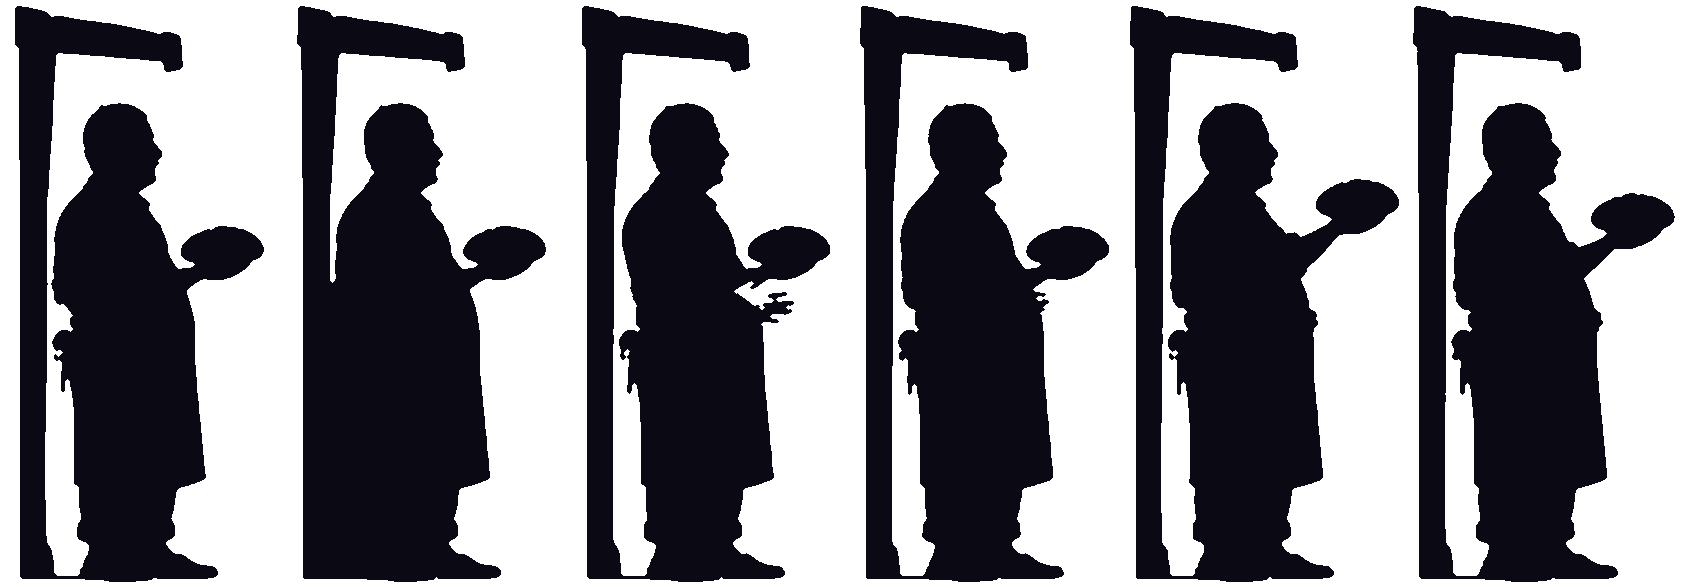
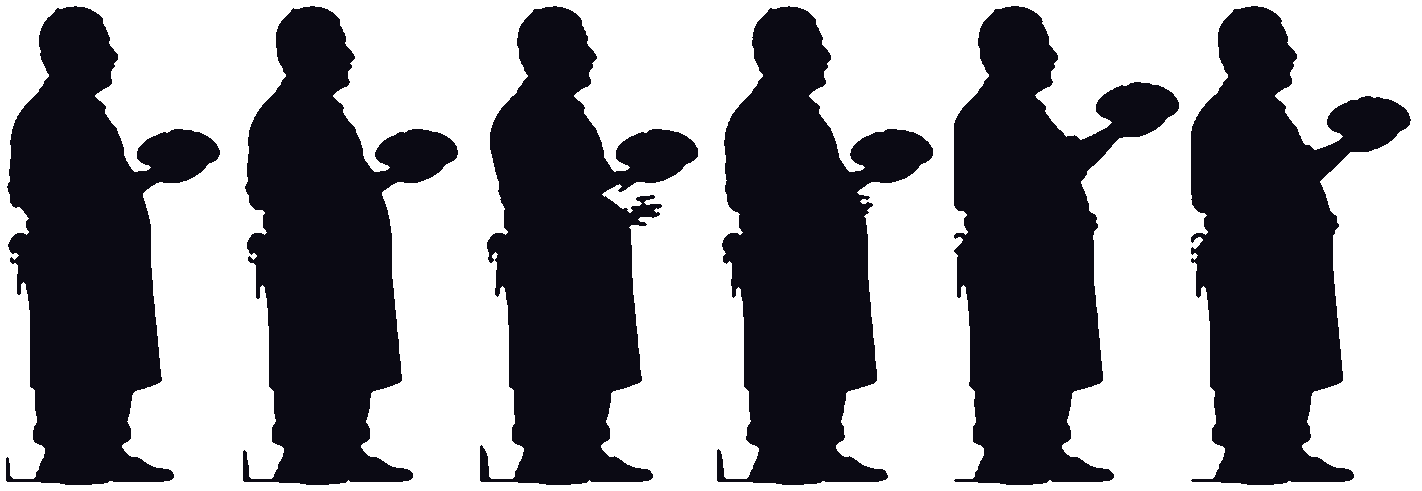
roto: --erase regions before keying; Abu Ahmad's idle without the doorway
Claude-Session: https://claude.ai/code/session_01N9yTAvqhZsfR68yJs5Z1wT

Changed region(s): [[0.0, 0.0, 1.0, 1.0], [0.1547, 0.5804, 0.3094, 1.0], [0.2475, 0.5193, 0.3094, 0.947]]

diff --git a/tools/roto.py b/tools/roto.py
@@ -156,6 +156,10 @@ def cmd_key(args: argparse.Namespace) -> None:
         if plate is not None and plate.shape != f.shape:
             sys.exit("roto: background plate must match the frame size")
         m = _mask_for(f, args, plate)
+        for region in args.erase:
+            x0, y0, x1, y1 = (float(v) for v in region.split(","))
+            hh, ww = m.shape
+            m[int(y0 * hh):int(y1 * hh), int(x0 * ww):int(x1 * ww)] = False
         m = _dilate(_erode(m, args.clean), args.clean)          # open: drop specks
         m = _erode(_dilate(m, args.fill), args.fill)            # close: fill pin holes
         m = _largest_components(m, 1.0 if args.largest else 0.02)
@@ -259,6 +263,8 @@ def main() -> None:
     k.add_argument("--colour", default="0b0a14", help="silhouette colour, hex")
     k.add_argument("--hand", help="static hand position x,y in output pixels")
     k.add_argument("--per-frame", dest="per_frame", action="store_true", help="crop each frame to its own box and bottom-align (jumps)")
+    k.add_argument("--erase", action="append", default=[], metavar="X0,Y0,X1,Y1",
+                   help="blank this region (fractions of the frame) before keying; repeatable")
     k.add_argument("--solid", action="store_true", help="fill enclosed holes (grey detail inside a silhouette)")
     k.add_argument("--largest", action="store_true", help="keep only the single biggest blob (a figure and what it holds)")
     k.set_defaults(fn=cmd_key)

diff --git a/docs/HANDOFF.md b/docs/HANDOFF.md
@@ -4,7 +4,7 @@ Where SUMUD stands on 30 September 2026, and how to pick it up in a new session 
 
 ## Where we are
 
-**Latest (1 October 2026, morning).** The founder allowed AI generation ("go ahead make it good"). The policy is flipped in `lock.md` (F-01 LOCKED, F-09 the limits), `art/direction.md`, `audio/direction.md` and `decisions.md`. All three style frames generated (`docs/art/style-frames/`, Canva media ids in `docs/art/prompts.md`) but only thumbnails reached the repo: the cloud environment's network policy denies `*.canva.com` and `fal.media`, so full-resolution generated files cannot be downloaded until the founder widens Network access in the environment settings. Done since: `tools/roto.py` (split a generated sheet, key frames to silhouettes, pack a strip) and `game/tools/build_frames.gd` (headless: strips to a `SpriteFrames` .tres per character plus `hands.json`), both tested on synthetic frames; `docs/art/prompts.md` logs every prompt. Character test: an image model produced Layla's model sheet and a clean 8-frame walk cycle on one baseline (`docs/art/characters/`, thumbnails), and `roto.py` keyed the walk thumbnail end to end, so the generated-frames route (art/direction method D) is viable once full files can be downloaded. `game/scripts/sprite_figure.gd` (`SpriteFigure extends Figure`) drives an `AnimatedSprite2D` from the same properties the player sets, keyed to `assets/characters/<name>/frames.tres` and `hands.json`, and falls back to bones when a character has no frames; `game/tests/test_sprites.tscn` covers it and runs in `check.sh`. **Layla walks on generated frames now:** `player.tscn`'s Visual is a `SpriteFigure` with `character = "layla"`; `game/assets/characters/layla/walk/` holds 8 keyed frames (316x571) and `frames.tres`. The frames came through without the network by a trick worth keeping: a Canva design (id `DAHWvaAkYqI`) gets one page per frame sized to the figure's box, the sheet media is placed on each page with a negative offset so the page window shows one frame, and `read-design` returns each page preview inline at 600 px on the long side, which `tools/roto.py key --lum 90` turns into silhouettes. Run (8), idle (7) and jump (6, bottom-aligned with `roto.py key --per-frame`) are in too, so Layla's idle, walk, run and jump are all generated frames; `frames.tres` holds the four. Note for the extraction trick: Canva sometimes returns a page's preview at a smaller pixel size than its siblings, so `roto.py key` now scales all input frames to the largest before keying. Crawl (6), kite-flying idle (`idle_kite`, 6), two-handed carry walk (`walk_twohand`, 8) and sit-down (5, plays once) are in as well: eight animations for Layla. Jump frames follow vertical speed (`Figure.vertical`, fed by the player): take-off, rise, apex, fall, and the landing frame while the squash lasts. Not yet: a heavy one-hand carry, climb, turn, and the walk variants while flying the kite. Sami (walk, idle), Teta (walk, seated idle with the key) and Baba (walk, net-mending seated idle) are in; `npc.gd` now builds a `SpriteFigure` named after the NPC (`character` export, default the name in lower case), and `player.gd` has a `character` export so the Baba player in `home.tscn` uses Baba's frames. Each animation carries a `stand_ratio` in `strip.json` → `meta.json` (crawl 0.5, seated 0.62 to 0.68, kite idle 1.12) because every generated sheet has its own scale. Mama (walk, list-reading idle) and Karim (walk, phone idle) are in through the second Canva design `DAHWvbZwfac` (the first, `DAHWvaAkYqI`, hit Canva's 100-page limit); `roto.py key --solid` fills enclosed holes (Mama's bag had grey detail). The whole Day 1 cast has frames: Layla (8 animations), Sami, Teta, Baba, Mama, Karim, Abu Ahmad (walk and idle each; Teta and Baba seated). NPC folder names are the NPC name in lower case with spaces as underscores (`abu_ahmad`); any NPC without a folder still draws bones. Abu Ahmad's walk windows were cut on uniform spacing, so the bread tray may be clipped at a frame edge; regenerate with wider pages if it shows. Full `check.sh` was green after the cast switch. **Sound and video generation:** Figma Weave's models (CassetteAI sound effects, Veo) answer that MCP runs need a paid Weave plan, so until the founder upgrades or supplies generated sounds themselves, audio stays synthesised or recorded. Feel pass done in `player.gd`, `camera_rig.gd`, `figure.gd` (coyote 0.1 s, buffer 0.1 s, variable jump with a 0.45 cut, skid, accel 4000/decel 5400, impact-scaled landing with a `landed` signal, smoothed camera lead with an edge clamp, F3 tuning overlay); two bots now hold jump instead of tapping it, because a tap is a hop by design. Values in `docs/design/feel-and-readability.md`. Next: the other two style frames, Layla's model sheet and sprite frames, textures and hero props, generated foley.
+**Latest (1 October 2026, morning).** The founder allowed AI generation ("go ahead make it good"). The policy is flipped in `lock.md` (F-01 LOCKED, F-09 the limits), `art/direction.md`, `audio/direction.md` and `decisions.md`. All three style frames generated (`docs/art/style-frames/`, Canva media ids in `docs/art/prompts.md`) but only thumbnails reached the repo: the cloud environment's network policy denies `*.canva.com` and `fal.media`, so full-resolution generated files cannot be downloaded until the founder widens Network access in the environment settings. Done since: `tools/roto.py` (split a generated sheet, key frames to silhouettes, pack a strip) and `game/tools/build_frames.gd` (headless: strips to a `SpriteFrames` .tres per character plus `hands.json`), both tested on synthetic frames; `docs/art/prompts.md` logs every prompt. Character test: an image model produced Layla's model sheet and a clean 8-frame walk cycle on one baseline (`docs/art/characters/`, thumbnails), and `roto.py` keyed the walk thumbnail end to end, so the generated-frames route (art/direction method D) is viable once full files can be downloaded. `game/scripts/sprite_figure.gd` (`SpriteFigure extends Figure`) drives an `AnimatedSprite2D` from the same properties the player sets, keyed to `assets/characters/<name>/frames.tres` and `hands.json`, and falls back to bones when a character has no frames; `game/tests/test_sprites.tscn` covers it and runs in `check.sh`. **Layla walks on generated frames now:** `player.tscn`'s Visual is a `SpriteFigure` with `character = "layla"`; `game/assets/characters/layla/walk/` holds 8 keyed frames (316x571) and `frames.tres`. The frames came through without the network by a trick worth keeping: a Canva design (id `DAHWvaAkYqI`) gets one page per frame sized to the figure's box, the sheet media is placed on each page with a negative offset so the page window shows one frame, and `read-design` returns each page preview inline at 600 px on the long side, which `tools/roto.py key --lum 90` turns into silhouettes. Run (8), idle (7) and jump (6, bottom-aligned with `roto.py key --per-frame`) are in too, so Layla's idle, walk, run and jump are all generated frames; `frames.tres` holds the four. Note for the extraction trick: Canva sometimes returns a page's preview at a smaller pixel size than its siblings, so `roto.py key` now scales all input frames to the largest before keying. Crawl (6), kite-flying idle (`idle_kite`, 6), two-handed carry walk (`walk_twohand`, 8) and sit-down (5, plays once) are in as well: eight animations for Layla. Jump frames follow vertical speed (`Figure.vertical`, fed by the player): take-off, rise, apex, fall, and the landing frame while the squash lasts. Not yet: a heavy one-hand carry, climb, turn, and the walk variants while flying the kite. Sami (walk, idle), Teta (walk, seated idle with the key) and Baba (walk, net-mending seated idle) are in; `npc.gd` now builds a `SpriteFigure` named after the NPC (`character` export, default the name in lower case), and `player.gd` has a `character` export so the Baba player in `home.tscn` uses Baba's frames. Each animation carries a `stand_ratio` in `strip.json` → `meta.json` (crawl 0.5, seated 0.62 to 0.68, kite idle 1.12) because every generated sheet has its own scale. Mama (walk, list-reading idle) and Karim (walk, phone idle) are in through the second Canva design `DAHWvbZwfac` (the first, `DAHWvaAkYqI`, hit Canva's 100-page limit); `roto.py key --solid` fills enclosed holes (Mama's bag had grey detail). The whole Day 1 cast has frames: Layla (8 animations), Sami, Teta, Baba, Mama, Karim, Abu Ahmad (walk and idle each; Teta and Baba seated). NPC folder names are the NPC name in lower case with spaces as underscores (`abu_ahmad`); any NPC without a folder still draws bones. `roto.py key --erase x0,y0,x1,y1` blanks a region before keying (used to cut the doorway the model drew behind Abu Ahmad). His walk windows were cut on uniform spacing, so the bread tray may be clipped at a frame edge; regenerate with wider pages if it shows. Full `check.sh` was green after the cast switch. **Sound and video generation:** Figma Weave's models (CassetteAI sound effects, Veo) answer that MCP runs need a paid Weave plan, so until the founder upgrades or supplies generated sounds themselves, audio stays synthesised or recorded. Feel pass done in `player.gd`, `camera_rig.gd`, `figure.gd` (coyote 0.1 s, buffer 0.1 s, variable jump with a 0.45 cut, skid, accel 4000/decel 5400, impact-scaled landing with a `landed` signal, smoothed camera lead with an edge clamp, F3 tuning overlay); two bots now hold jump instead of tapping it, because a tap is a hop by design. Values in `docs/design/feel-and-readability.md`. Next: the other two style frames, Layla's model sheet and sprite frames, textures and hero props, generated foley.
 
 **Stage: pre-production lock** (30 September to 13 October 2026). The first playable (a Day 1 sampler) is done and the founder has played it on Windows. Their verdict: "if my dream is v2.0, this is v0.2" — characters wooden, scarf and eyes weird, walk and jump weird, story dead, gameplay dry, cuts sudden, sounds weird. They asked to lock everything that cannot change before real production, and said yes to moving the launch date for quality. The plan: lock, then Day 1 as a vertical slice at shipping quality, then Day 3, then production (`docs/production/pipeline.md`).
 
